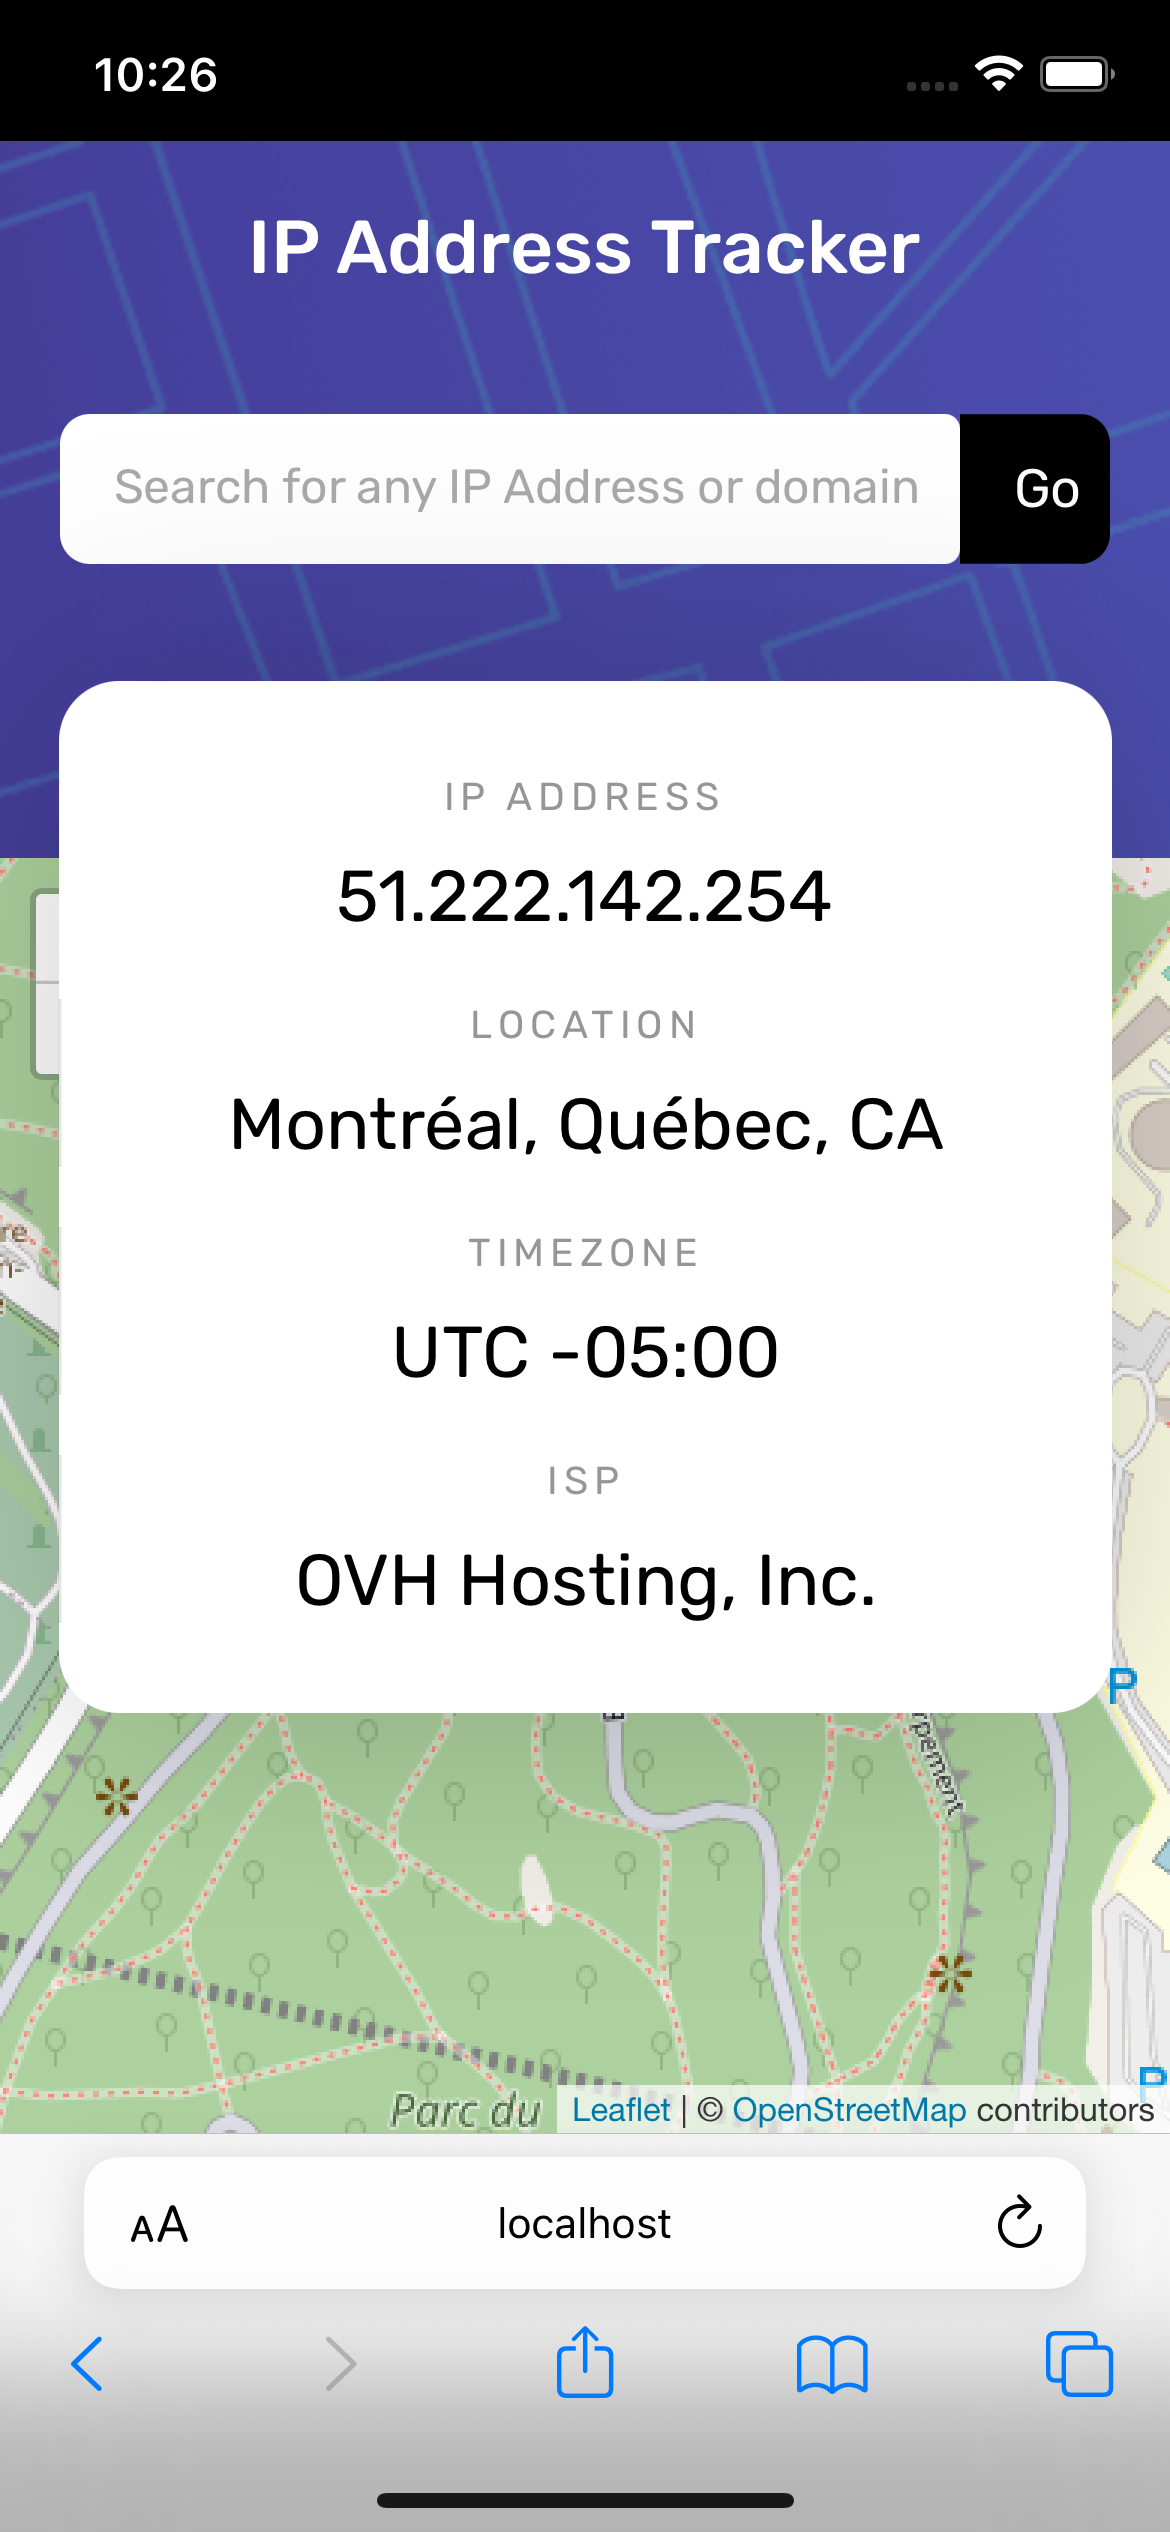
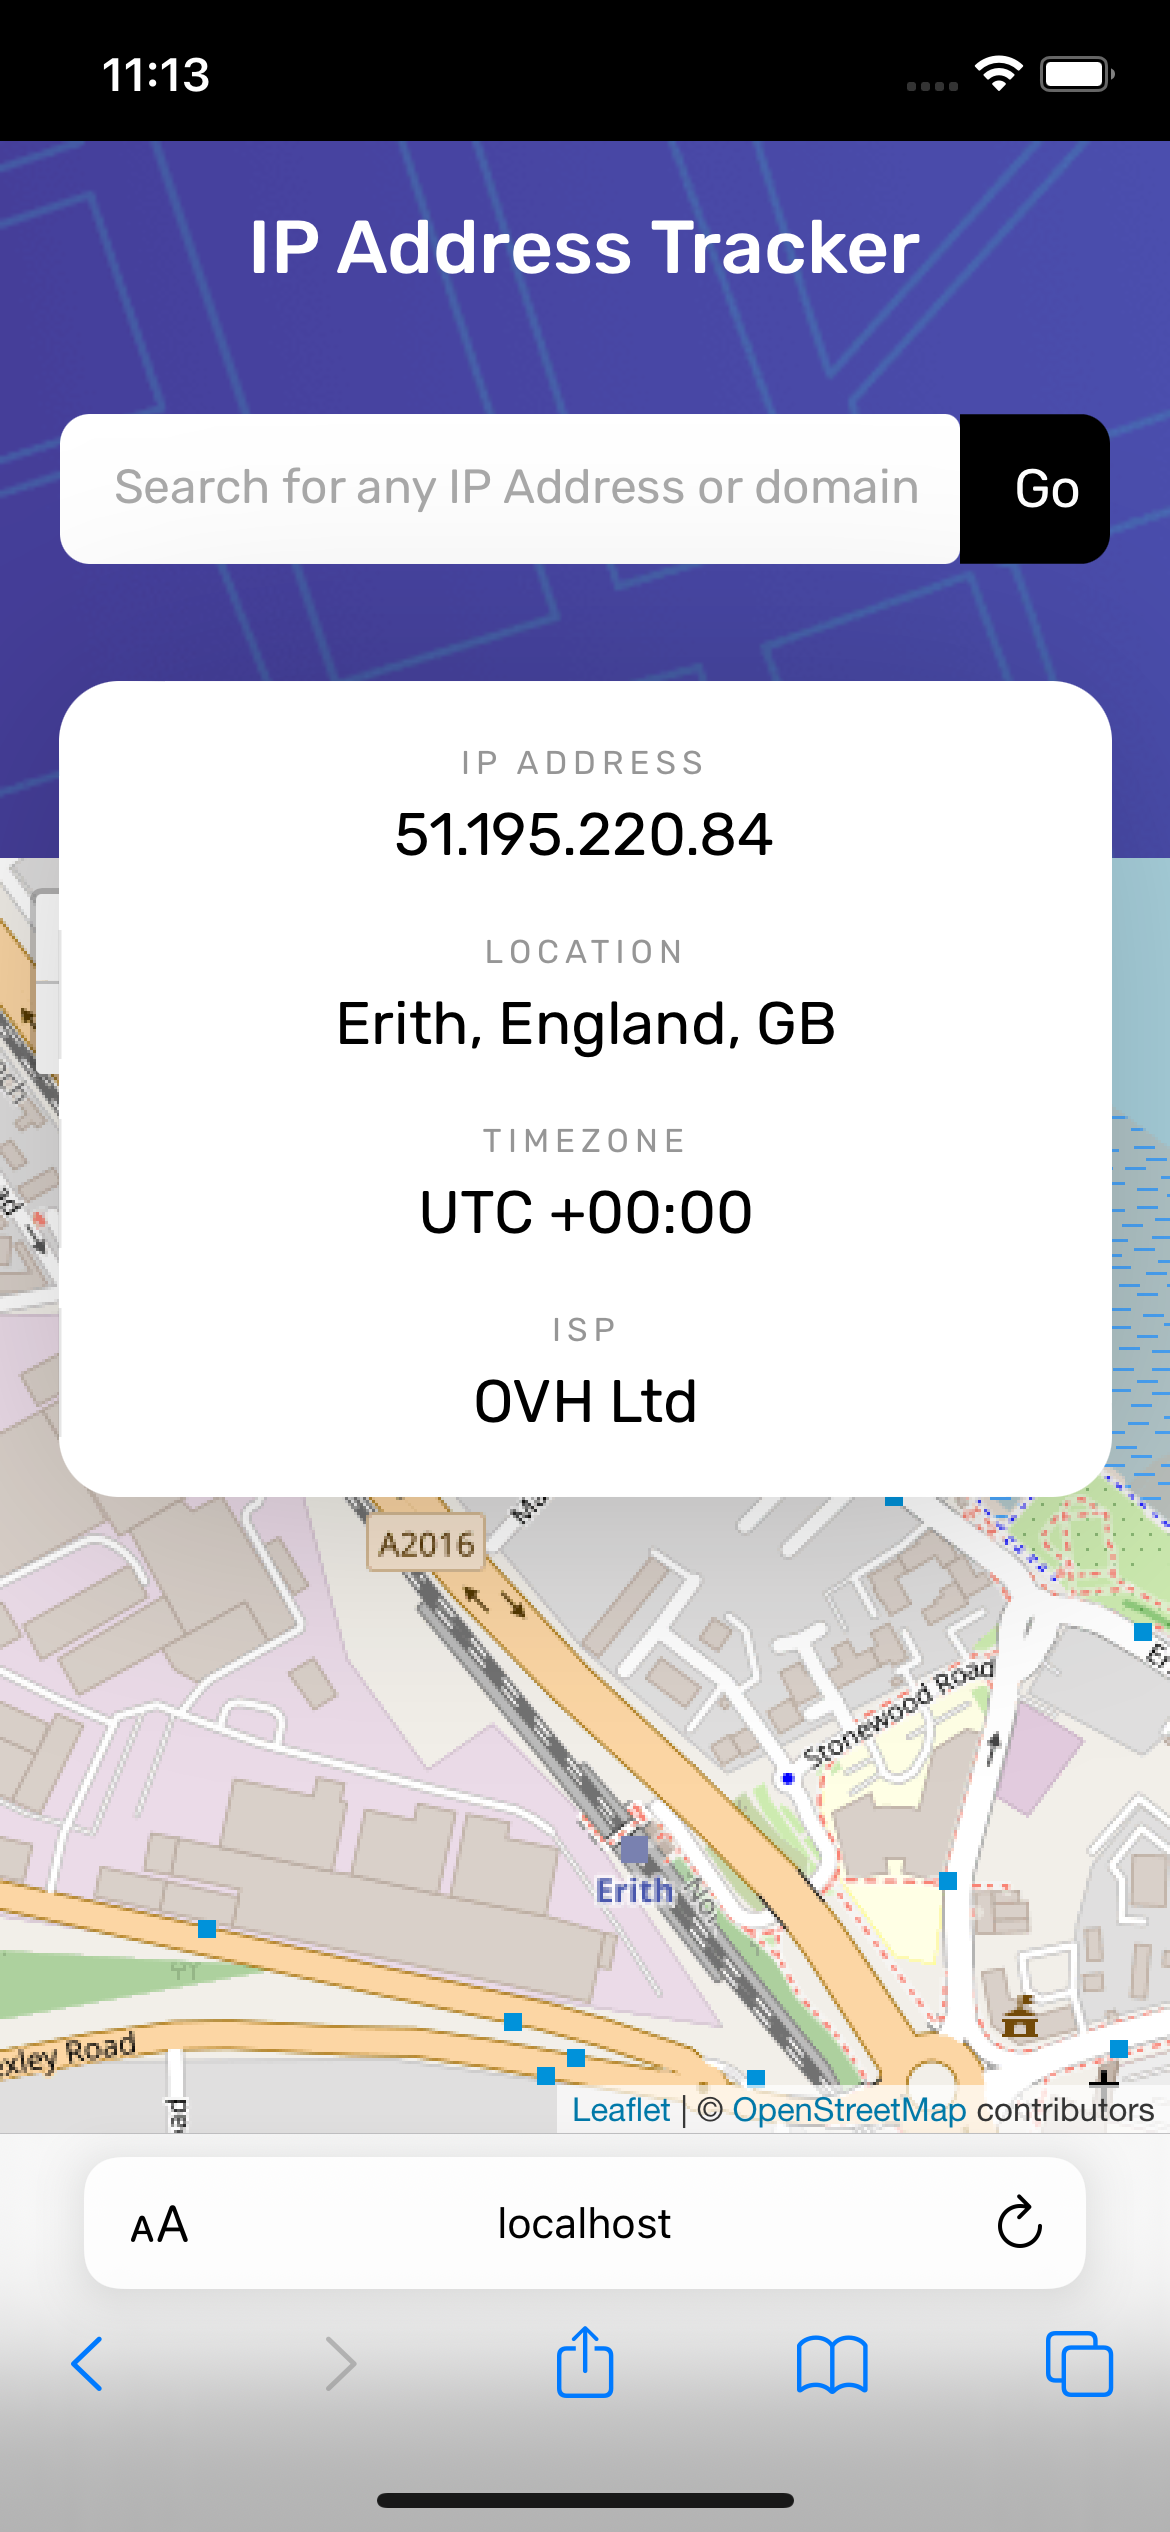
change mobile font size

Changed region(s): [[0.0, 0.2808, 1.0, 0.8424], [0.1538, 0.0, 0.1846, 0.0624], [0.0923, 0.0, 0.1231, 0.0624]]

diff --git a/src/components/DetailBody.jsx b/src/components/DetailBody.jsx
@@ -4,6 +4,11 @@ const DetailBody = styled.h1`
   font-size: 24px;
   font-weight: 400;
   margin: 10px 0 0;
+
+  @media (max-width: 549px) {
+    font-size: 20px;
+    margin-top: 5px;
+  }
 `;
 
 export default DetailBody;

diff --git a/src/components/DetailHeading.jsx b/src/components/DetailHeading.jsx
@@ -6,6 +6,10 @@ const DetailHeading = styled.p`
   letter-spacing: 2px;
   color: hsl(0, 0%, 59%);
   margin: 0;
+  
+  @media (max-width: 549px) {
+    font-size: 11px;
+  }
 `;
 
 export default DetailHeading;

diff --git a/src/components/DetailsContainer.jsx b/src/components/DetailsContainer.jsx
@@ -22,6 +22,7 @@ const DetailsContainer = styled.div`
   @media (max-width: 549px) {
     text-align: center;
     min-width: 90%;
+    padding: 20px 0;
   }
 `;
 
